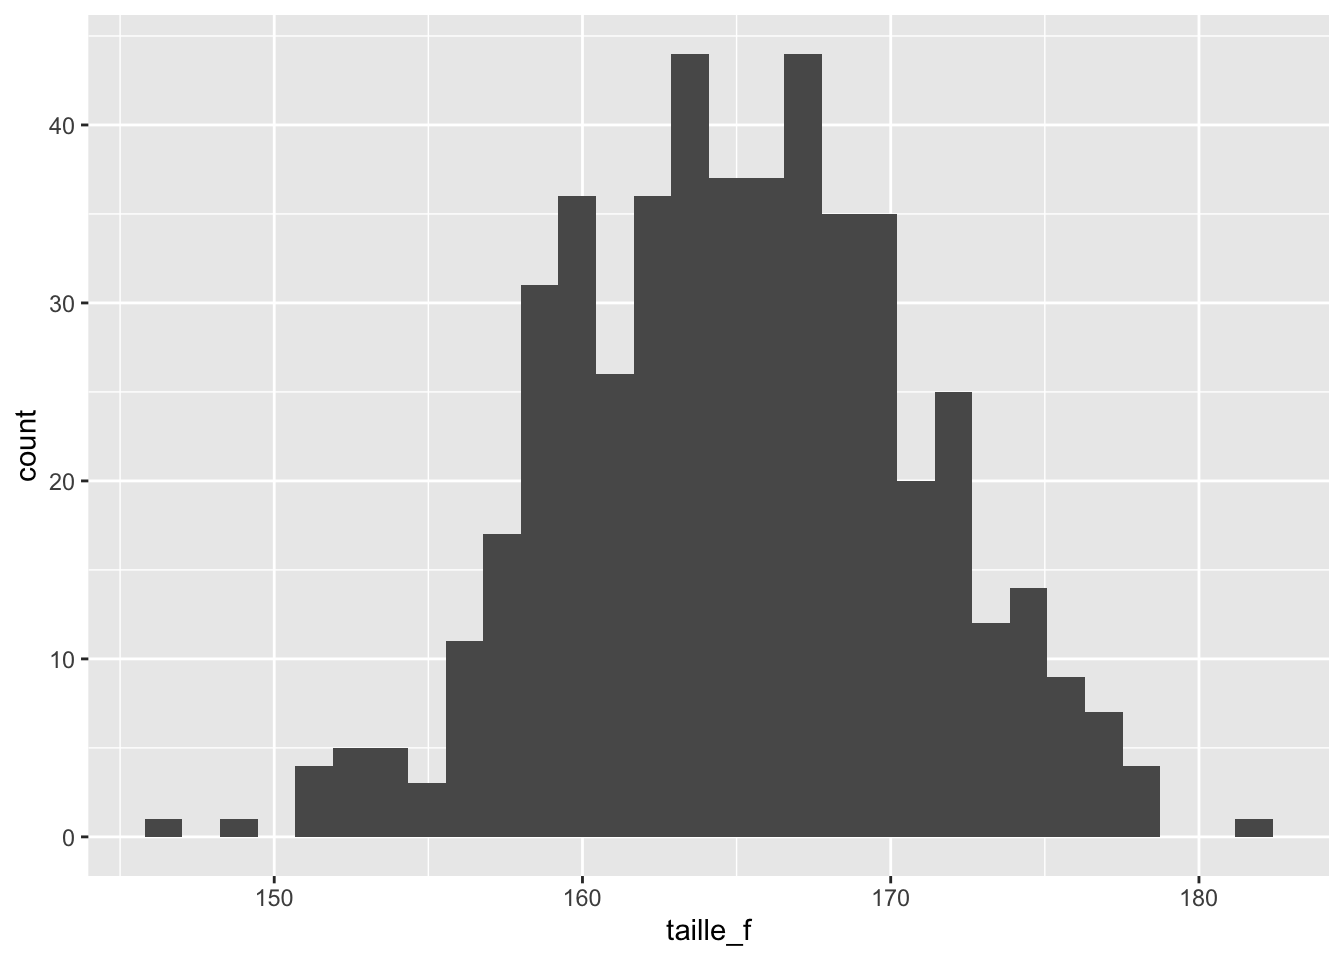
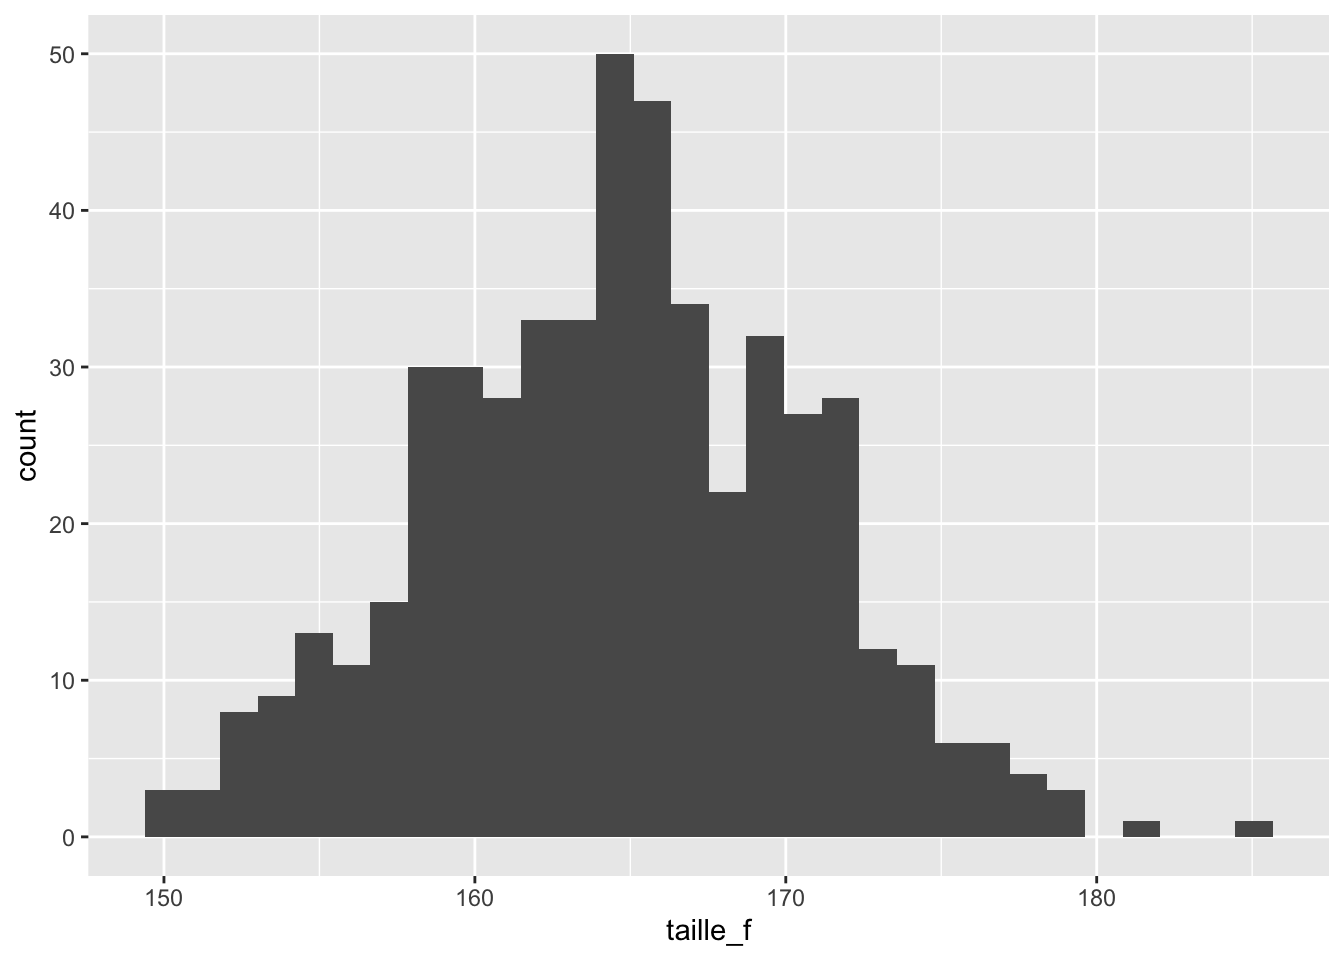
session 9 v1

diff --git a/index.html b/index.html
@@ -126,6 +126,7 @@ pre > code.sourceCode > span > a:first-child::before { text-decoration: underlin
   <li><a href="#devoir-pour-session-8-et-infos-questionnaireproblem-set-3" id="toc-devoir-pour-session-8-et-infos-questionnaireproblem-set-3" class="nav-link" data-scroll-target="#devoir-pour-session-8-et-infos-questionnaireproblem-set-3">Devoir pour Session 8 et infos questionnaire/Problem Set 3</a></li>
   </ul></li>
   <li><a href="#session-8-cours-en-auto-apprentissage" id="toc-session-8-cours-en-auto-apprentissage" class="nav-link" data-scroll-target="#session-8-cours-en-auto-apprentissage">Session 8 (cours en auto-apprentissage)</a></li>
+  <li><a href="#session-9-problem-set-3" id="toc-session-9-problem-set-3" class="nav-link" data-scroll-target="#session-9-problem-set-3">Session 9 (Problem Set 3)</a></li>
   </ul>
 </nav>
 </div>
@@ -1728,7 +1729,7 @@ Attention
 <span id="cb100-5"><a href="#cb100-5" aria-hidden="true" tabindex="-1"></a></span>
 <span id="cb100-6"><a href="#cb100-6" aria-hidden="true" tabindex="-1"></a><span class="fu">head</span>(taille_f)</span></code><button title="Copy to Clipboard" class="code-copy-button"><i class="bi"></i></button></pre></div>
 <div class="cell-output cell-output-stdout">
-<pre><code>[1] 174.4056 164.9206 160.1439 173.6910 157.9456 159.1226</code></pre>
+<pre><code>[1] 160.3182 164.1879 159.6619 151.3162 163.1405 169.1769</code></pre>
 </div>
 <div class="sourceCode cell-code" id="cb102"><pre class="sourceCode r code-with-copy"><code class="sourceCode r"><span id="cb102-1"><a href="#cb102-1" aria-hidden="true" tabindex="-1"></a><span class="co"># stocker taille_f comme objet de type 'data.frame'</span></span>
 <span id="cb102-2"><a href="#cb102-2" aria-hidden="true" tabindex="-1"></a>taille_f <span class="ot">&lt;-</span> <span class="fu">as.data.frame</span>(taille_f)</span>
@@ -3695,6 +3696,25 @@ Solution
 </div>
 </div>
 </section>
+</section>
+<section id="session-9-problem-set-3" class="level1">
+<h1>Session 9 (Problem Set 3)</h1>
+<p>Les résultats du <strong>Problem Set 3</strong> (bonnes réponses, échelle des notes) sont accéssibles sur la page Moodle de l’exercice.</p>
+<p>Voici l’histogramme des points obtenus par n = 79 étudiant.es qui ont participé au Problem Set 3.</p>
+<ul>
+<li><p>Le nombre maximal de points était de 20, il fallait 10 pour passer le test.</p></li>
+<li><p>La moyenne des points obtenus était de 11.5 (note = 4.25).</p></li>
+<li><p>59 étudiant.es (75%) ont réussi Problem Set 3.</p></li>
+</ul>
+<div class="cell">
+<div class="cell-output-display">
+<div>
+<figure class="figure">
+<p><img src="index_files/figure-html/unnamed-chunk-79-1.png" class="img-fluid figure-img" width="672"></p>
+</figure>
+</div>
+</div>
+</div>
 </section>
 
 <div id="quarto-appendix" class="default"><section class="quarto-appendix-contents" id="quarto-reuse"><h2 class="anchored quarto-appendix-heading">Reuse</h2><div class="quarto-appendix-contents"><div>MIT</div></div></section></div></main>
